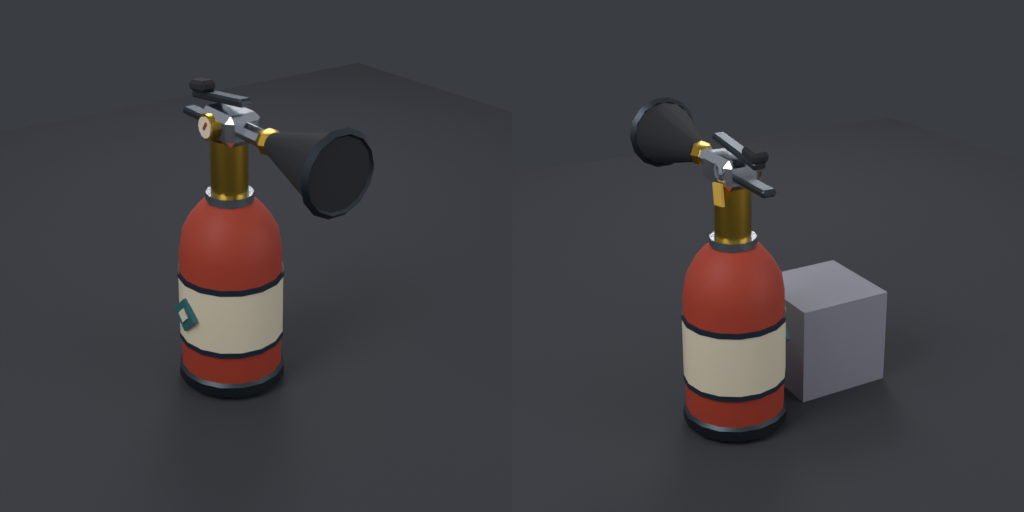
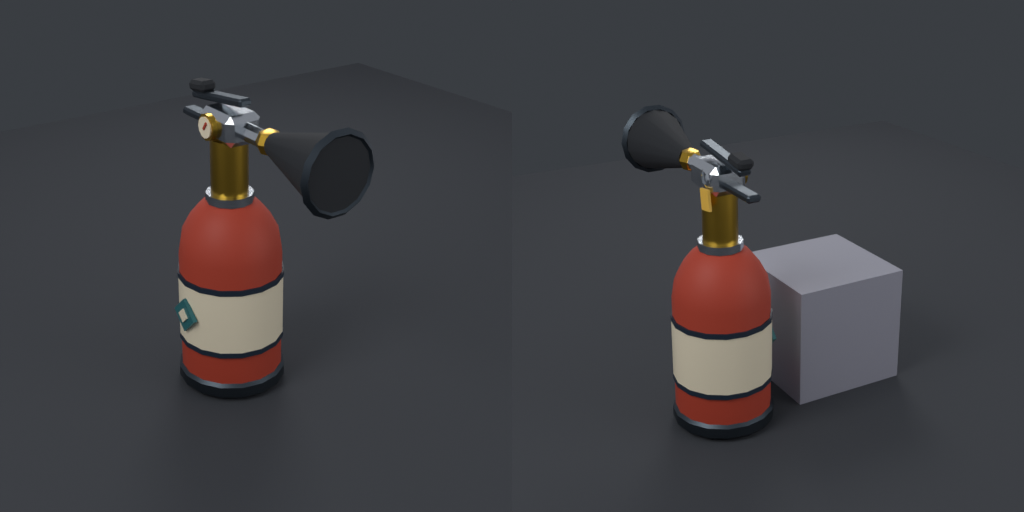
Prompt 13 playtest: the Extinguisher at 0.8 scale (v2); a filled tunnel's rubble stays inside the tunnel cell
Claude-Session: https://claude.ai/code/session_01F5fKm1bG87oz9fPY28Z3ey

Changed region(s): [[0.5938, 0.25, 0.9062, 0.875], [0.5938, 0.2188, 0.625, 0.25]]

diff --git a/generators/Weapons/Tool_Extinguisher.py b/generators/Weapons/Tool_Extinguisher.py
@@ -6,6 +6,9 @@ chrome valve head with a squeeze lever and carry handle, a brass pressure gauge 
 face, a safety pin with a Hazard Yellow tag, and the period's big black horn on a swivel arm,
 pointing forward.
 
+v2 (Prompt 13 playtest, Nov 9): built at 0.8 scale (SCALE), so on a classic avatar the tank
+hangs to mid-shin instead of the floor and clears the right thigh.
+
 How it is held: tools use the gun's hold pose (CombatController, forearm forward at the hip),
 so the fist's grip runs vertically. The hand closes round the brass neck under the valve
 head, the tank hangs below the fist (its bottom near the knee, clear of the legs: the hand is
@@ -22,6 +25,7 @@ import os
 import sys
 
 sys.path.insert(0, os.path.join(os.path.dirname(__file__), "..", "lib"))
+import bpy  # noqa: E402
 import steadfast as sf  # noqa: E402
 
 ASSET, CATEGORY = "Tool_Extinguisher", "Weapons"
@@ -29,7 +33,8 @@ BUDGET = 1500
 GRIP = (0.0, 0.0, 0.0)            # on the brass neck's axis, where the fist closes
 HORN_Z = 0.33                     # the horn's axis, just over the fist
 MOUTH_Y = -1.5
-R = 0.48                          # the tank's radius
+R = 0.48                          # the tank's radius (before SCALE)
+SCALE = 0.8                       # the whole tool, about the grip (v2: the first build was too big in hand)
 
 
 def build():
@@ -71,9 +76,13 @@ def build():
     sf.tag(sf.torus(0.07, 0.016, loc=(0.2, 0.12, HORN_Z + 0.04), rot=(0, 90, 0), major_segs=8, minor_segs=3),
            "Valve", "chrome", collision=q)
     sf.tag(sf.box((0.025, 0.16, 0.2), loc=(0.21, 0.14, HORN_Z - 0.16), rot=(8, 0, 0), bevel=0.0), "Tag", "hazard", collision=q)
+    for o in bpy.context.scene.objects:   # everything about the grip (the origin)
+        if o.get("sf_part"):
+            o.location = o.location * SCALE
+            o.scale = o.scale * SCALE
     return {"export": {
         "budget": BUDGET, "step": "P13", "pivot": GRIP,
-        "sockets": {"Grip": (GRIP, 0.0), "Muzzle": ((0, MOUTH_Y - 0.02, HORN_Z), 0.0)},
+        "sockets": {"Grip": (GRIP, 0.0), "Muzzle": ((0, (MOUTH_Y - 0.02) * SCALE, HORN_Z * SCALE), 0.0)},
         "meta": {"kind": "Tool", "item": "Extinguisher", "class": ["Firefighter"]},
     }}
 

diff --git a/generators/UI/UI_Portraits.py b/generators/UI/UI_Portraits.py
@@ -246,7 +246,7 @@ WEAPON_ICONS = {
     "Icon_ServiceRevolver": ("Weapon_ServiceRevolver", (-18, 12), 3.0),
     "Icon_PocketPistol": ("Weapon_PocketPistol", (-18, 12), 2.5),
     "Icon_Wrench": ("Weapon_Wrench", (-38, 12), 4.4),
-    "Icon_Extinguisher": ("Tool_Extinguisher", (-12, 14), 3.6),     # Prompt 13
+    "Icon_Extinguisher": ("Tool_Extinguisher", (-12, 14), 2.9),     # Prompt 13
     "Icon_Welder": ("Tool_Welder", (-14, 12), 3.0),
 }
 
